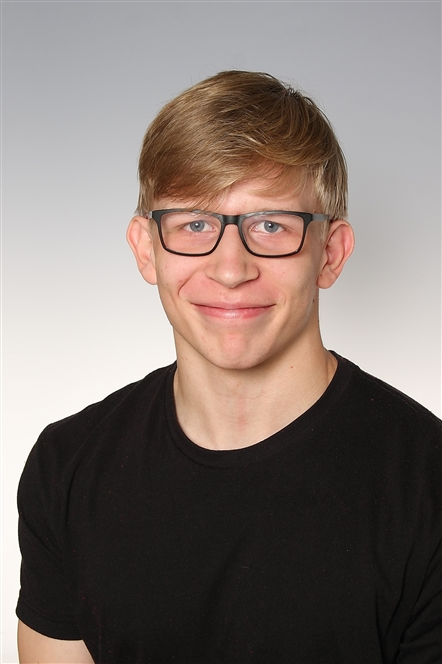
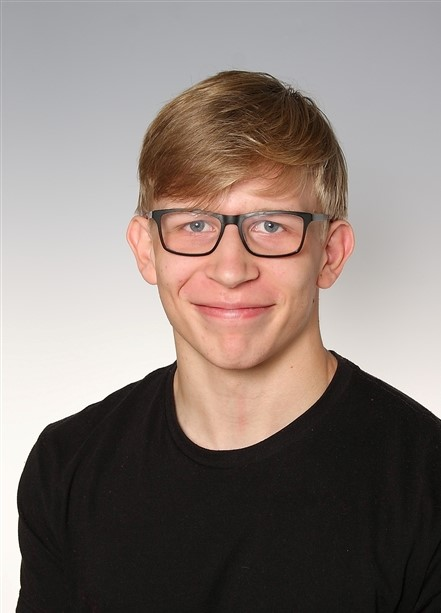
continue theory

Changed region(s): [[0.0295, 0.093, 1.0, 1.0]]

diff --git a/Theorie/00_Start.tex b/Theorie/00_Start.tex
@@ -19,7 +19,7 @@ Leonding, \duedateen \\[5em]
 \ifthenelse{\isundefined{\fourthauthor}}{}{\kern-1ex, \fourthauthor} \\[5em]
 
 \begin{abstract}
-	Die Konzentration der Schüler während des Unterrichts ist wichtig. Doch Sehr oft kommt es vor, dass in einm Klassenraum Sauerstoffmangel herrscht. Deswegen wurde von der HTBLA-Leonding ein Mesh-Netzwerk aus Mikrocontrollern in Auftrag gegeben. Dieses Mesh-Netzwerk agiert als Infrastruktur für sämtliche Sensoren und Aktoren und ermöglich ihnen Nachrichten untereinander zu versenden.
+	Die Konzentration der Schüler während des Unterrichts ist wichtig. Doch Sehr oft kommt es vor, dass in einm Klassenraum Sauerstoffmangel herrscht. Deswegen wurde von der HTBLA-Leonding ein Mesh-Netzwerk aus Mikrocontrollern in Auftrag gegeben. Dieses Mesh-Netzwerk agiert als Infrastruktur für sämtliche Sensoren und Aktoren, die in der Schule untergebracht sind und ermöglich ihnen Nachrichten untereinander zu versenden.
 
 	Die Vorteile eines Mesh-Netzwerkes gegenüber einem normalen Wi-Fi Netzwerk sind, dass:
 	\begin{itemize}
@@ -28,15 +28,52 @@ Leonding, \duedateen \\[5em]
 		\item Mesh-Netzwerke leicht skalierbar sind, da um die Reichweite des Netzwerkes anzupassen nur Mikrocontroller hinzugefügt oder entfernt werden müssen
 		\item der Benutzer sich nicht darum kümmern muss mit welchem Knoten er sich verbindet. Vom Standpunkt des Benutzers sehen die verschiedenen Accesspoints der Mikrocontroller wie ein großes Wi-Fi Netzwerk aus.
 	\end{itemize}
-	Zusammenfassung in Deutsch + Bild am Ende
+	\begin{figure}[H]
+        \begin{center}
+            \includegraphics[scale=0.31]{images/meshnetwork-esp32.png}
+            \caption{Mikrocontroller in einem Meshnetzwerk (Quelle: eigene Darstellung)}
+        \end{center}
+    \end{figure}
 \end{abstract}
 
 \begin{otherlanguage}{english}
 \begin{abstract}
-	Zusammenfassung in Englisch + Bild am Ende
+	
+	The concentration of the students during class is very important. But often it happens that there is a lack of oxygen in a classroom. That is why the HTBLA-Leonding commissioned a mesh network of microcontrollers to be designed. This mesh network acts as an infrastructure for all sensors and actuators in the school and enables them to send messages to one another.
+
+	The advantages of a mesh network over a normal Wi-Fi network are the following:
+	\begin{itemize}
+		\item each microcontroller opens its own access point thus making the mesh network reache a greater range
+		\item a mesh network can react independently to failing nodes and automatically adjusts the network structure
+		\item Mesh networks are easily scalable, to adjust the range of the network only microcontrollers have to be added or removed
+		\item the user does not have to worry about which node to connect to. From the user's point of view, the various access points of the microcontrollers look like a large Wi-Fi network.
+	\end{itemize}
+	\begin{figure}[H]
+        \begin{center}
+            \includegraphics[scale=0.31]{images/meshnetwork-esp32.png}
+            \caption{microcontroller in a meshnetwork (source: own source)}
+        \end{center}
+    \end{figure}
 \end{abstract}
 \end{otherlanguage}
+
+
 \section*{Autoren der Diplomarbeit}
+\subsection{Tim Untersberger}
+\subsubsection{Aufgabenbereich}
+%TODO ASK stütz
+\begin{figure}[H]
+	\includegraphics[scale=0.3]{images/tim_untersberger.jpg}
+\end{figure}
+\pagebreak
+\subsection{Stefan Waldl}
+\subsubsection{Aufgabenbereich}
+%TODO ASK stütz
+\begin{figure}[H]
+	\includegraphics[scale=1]{images/stefan_waldl.jpg}
+\end{figure}
+\pagebreak
+ 
 
 \section*{Danksagung}
 If you feel like saying thanks to your grandma and/or other relatives.

diff --git a/Theorie/04_AusgewaehlteAspekte.tex b/Theorie/04_AusgewaehlteAspekte.tex
@@ -572,6 +572,7 @@ In der \textbf{Dht22} Library sind insgesamt 6 öffentliche Funktionen definiert
 
     Diese Funktion gibt, den Wert, der internen Temperatur Variable, in welche \textbf{dht22\_read()} die Temperatur Daten des Sensors schreibt, in der Gleitkommadarstellung zurück.
 \end{itemize}
+\cite{dht22-lib}
 
 \subsection{Eigene Libraries}\label{sec:own-libraries}
 
